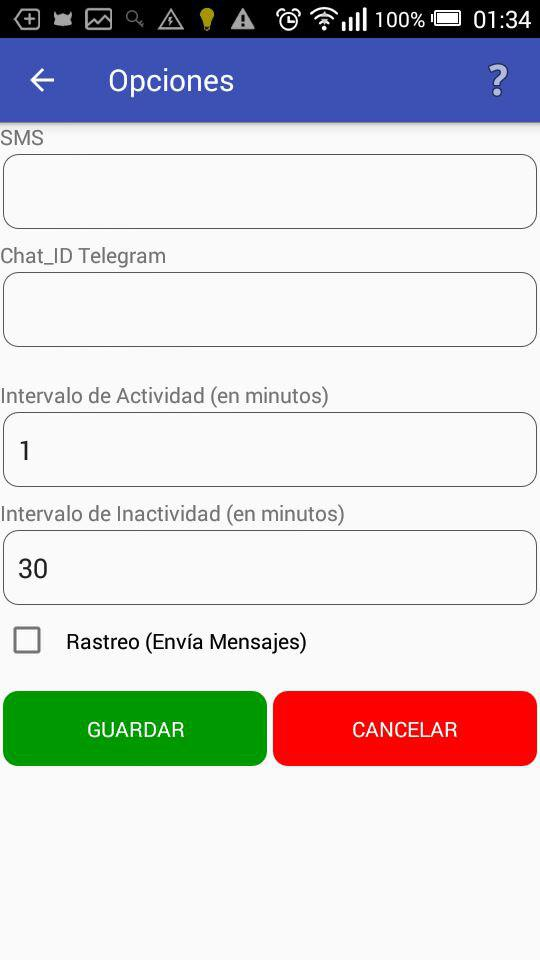
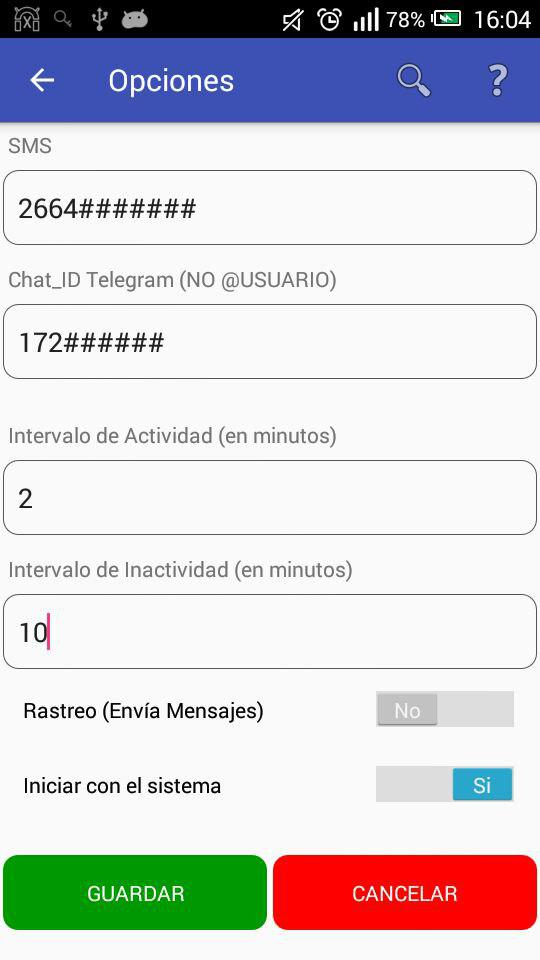
version 0.8

diff --git a/app/src/main/java/pc/javier/seguime/ActividadRegresiva.java b/app/src/main/java/pc/javier/seguime/ActividadRegresiva.java
@@ -93,9 +93,7 @@ public class ActividadRegresiva extends AppCompatActivity {
         // obtiene la hora en la que debe activarse la alarma
         String alarma = Aplicacion.preferenciaCadena("alarma");
 
-        // si no hay alarma sale
-        if (alarma == "")
-            return;
+
 
 
 
@@ -106,13 +104,18 @@ public class ActividadRegresiva extends AppCompatActivity {
         mensajeLog(alarma + ">" + FechaHora.cantidadMinutos(alarma));
         mensajeLog("Intervalo: " + FechaHora.intervalo(alarma));
 
-        if (Parametro.telefono != null)
-            if (!Parametro.telefono.equals(""))
-                tvSms.setText(Parametro.telefono);
+        if (!estaActivo())
+            if (Parametro.telefono != null)
+                if (!Parametro.telefono.equals(""))
+                    tvSms.setText(Parametro.telefono);
         Parametro.telefono = "";
 
 
-        temporizadorAlarmaIniciar();
+        tvSms.setEnabled(!estaActivo());
+        tvTexto.setEnabled(!estaActivo());
+
+        if (estaActivo())
+            temporizadorAlarmaIniciar();
     }
 
     public void clickBoton (View view) {
@@ -128,10 +131,7 @@ public class ActividadRegresiva extends AppCompatActivity {
 
     // verifica si esta activo o inactivo
     private boolean estaActivo() {
-        if (Aplicacion.alarma() == "")
-            return false;
-        else
-            return true;
+        return  (Aplicacion.alarma() != "");
     }
 
 
@@ -161,9 +161,13 @@ public class ActividadRegresiva extends AppCompatActivity {
 
         temporizadorAlarmaDetener();
         boton();
+        tvTexto.setEnabled(true);
+        tvSms.setEnabled(true);
     }
 
     private void iniciar(){
+        tvTexto.setEnabled(false);
+        tvSms.setEnabled(false);
 
         if (tvTexto.getText().equals(""))
             tvTexto.setText(R.string.alarmamensaje);

diff --git a/app/src/main/java/pc/javier/seguime/ActividadOpciones.java b/app/src/main/java/pc/javier/seguime/ActividadOpciones.java
@@ -9,8 +9,9 @@ import android.os.Bundle;
 import android.view.Menu;
 import android.view.MenuItem;
 import android.view.View;
-import android.widget.CheckBox;
+
 import android.widget.EditText;
+import android.widget.Switch;
 import android.widget.Toast;
 
 import pc.javier.seguime.utilidades.Parametro;
@@ -23,7 +24,7 @@ public class ActividadOpciones extends AppCompatActivity {
     EditText Ttelegram ;
     EditText Tactividad ;
     EditText Tinactividad;
-    CheckBox Crastreo;
+    Switch Crastreo;
 
 
     @Override
@@ -35,7 +36,7 @@ public class ActividadOpciones extends AppCompatActivity {
         Ttelegram = (EditText) findViewById(R.id.opciones_telegram);
         Tactividad = (EditText) findViewById(R.id.opciones_actividad);
         Tinactividad = (EditText) findViewById(R.id.opciones_inactividad);
-        Crastreo = (CheckBox) findViewById(R.id.opciones_rastreo);
+        Crastreo = (Switch) findViewById(R.id.opciones_rastreo);
 
         preferencias = getSharedPreferences("preferencias", MODE_PRIVATE);
         cargarOpciones();

diff --git a/CHANGELOG.md b/CHANGELOG.md
@@ -2,6 +2,8 @@
 
 ### [0.8] - 30 Junio 2018
 Correcciones: Mejora en la estabilidad.
+Correcciones: Selección de contacto en el temporizador.
+Modificado: Diseño de opciones.
 
 ### [0.7] - 23 Junio 2018
 * Modificado: Funcionamiento interno del Temporizador (Optimización, ahorro de batería).
